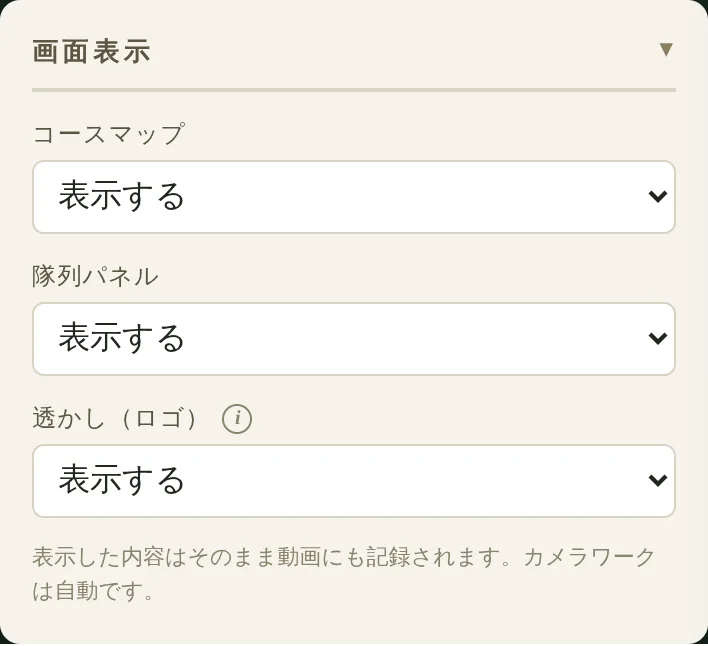
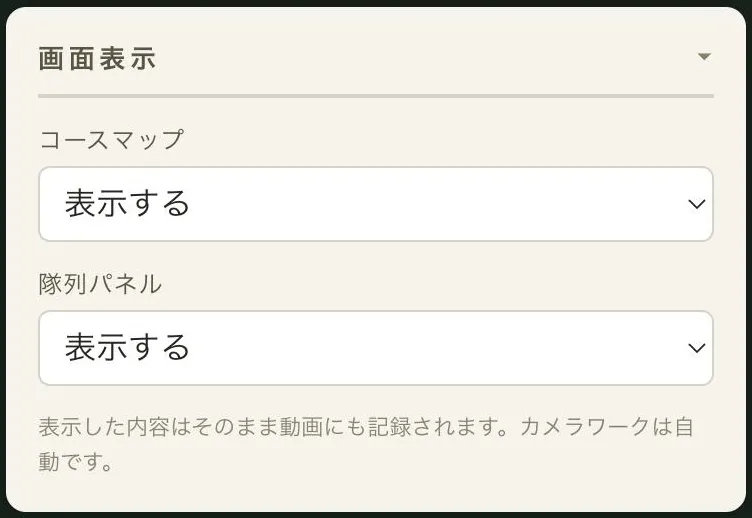
docs(blog): 透かしの選択が書き出し画面だけになったことに合わせる
格付けダービーの設定パネルから透かしの選択を外したので、
パネルを3項目として説明していた箇所を2項目に直し、
透かしは書き出し画面で選ぶ旨を書いた。画面表示パネルの
スクリーンショットも撮り直し。

Changed region(s): [[0.0, 0.0, 1.0, 1.0]]

diff --git a/blog/how-to-make-horse-race-ranking-video/index.html b/blog/how-to-make-horse-race-ranking-video/index.html
@@ -757,20 +757,19 @@
 
         <h4>画面表示（3Dのみ）</h4>
 
-        <p>3Dモードには「画面表示」パネルがあり、画面に重ねる情報を3つ切り替えられます。</p>
+        <p>3Dモードには「画面表示」パネルがあり、画面に重ねる情報を2つ切り替えられます。</p>
 
         <figure class="fig fig-panel">
-          <img src="kakuzuke-derby-display-settings.webp" alt="3Dモードの画面表示パネル。コースマップ、隊列パネル、透かしの表示切り替え" width="708" height="646" loading="lazy" decoding="async">
+          <img src="kakuzuke-derby-display-settings.webp" alt="3Dモードの画面表示パネル。コースマップと隊列パネルの表示切り替え" width="752" height="518" loading="lazy" decoding="async">
           <figcaption>ここで表示した内容は、そのまま書き出した動画にも記録されます。</figcaption>
         </figure>
 
         <ul>
           <li><strong>コースマップ</strong>：左下に出るコース全体の俯瞰図。現在位置と走った軌跡が表示されます</li>
           <li><strong>隊列パネル</strong>：中央下に出る位置関係の表示。先頭を右端、最後尾を左端に固定し、隊列の実際の長さを全幅に対応させています</li>
-          <li><strong>透かし（ロゴ）</strong>：画面を流れる「GraphRace Studio」のロゴ</li>
         </ul>
 
-        <p>縦型（9:16）で作る場合は、画面が狭くなるぶんコースマップと隊列パネルを消したほうがすっきりします。</p>
+        <p>縦型（9:16）で作る場合は、画面が狭くなるぶんコースマップと隊列パネルを消したほうがすっきりします。なお、画面を流れる「GraphRace Studio」の透かしは、このパネルではなく<strong>書き出し画面</strong>で有無を選びます。</p>
 
         <div class="box note">
           <span class="bt">カメラワークは自動です</span>

diff --git a/blog/award-ceremony-ideas/index.html b/blog/award-ceremony-ideas/index.html
@@ -826,7 +826,7 @@
         </ol>
 
         <p>
-          画面を流れる「GraphRace Studio」の透かしは、設定で表示・非表示を切り替えられます（現時点では無料で非表示にできます）。全設定項目の意味や2Dと3Dの使い分けは、<a href="../how-to-make-horse-race-ranking-video/">競馬風の順位発表動画「格付けダービー」の作り方</a>で詳しく解説しています。
+          画面を流れる「GraphRace Studio」の透かしは、書き出し画面で表示・非表示を選べます（現時点では無料で非表示にできます）。全設定項目の意味や2Dと3Dの使い分けは、<a href="../how-to-make-horse-race-ranking-video/">競馬風の順位発表動画「格付けダービー」の作り方</a>で詳しく解説しています。
         </p>
 
         <h3 id="idea9">9. リアルタイム投票</h3>
